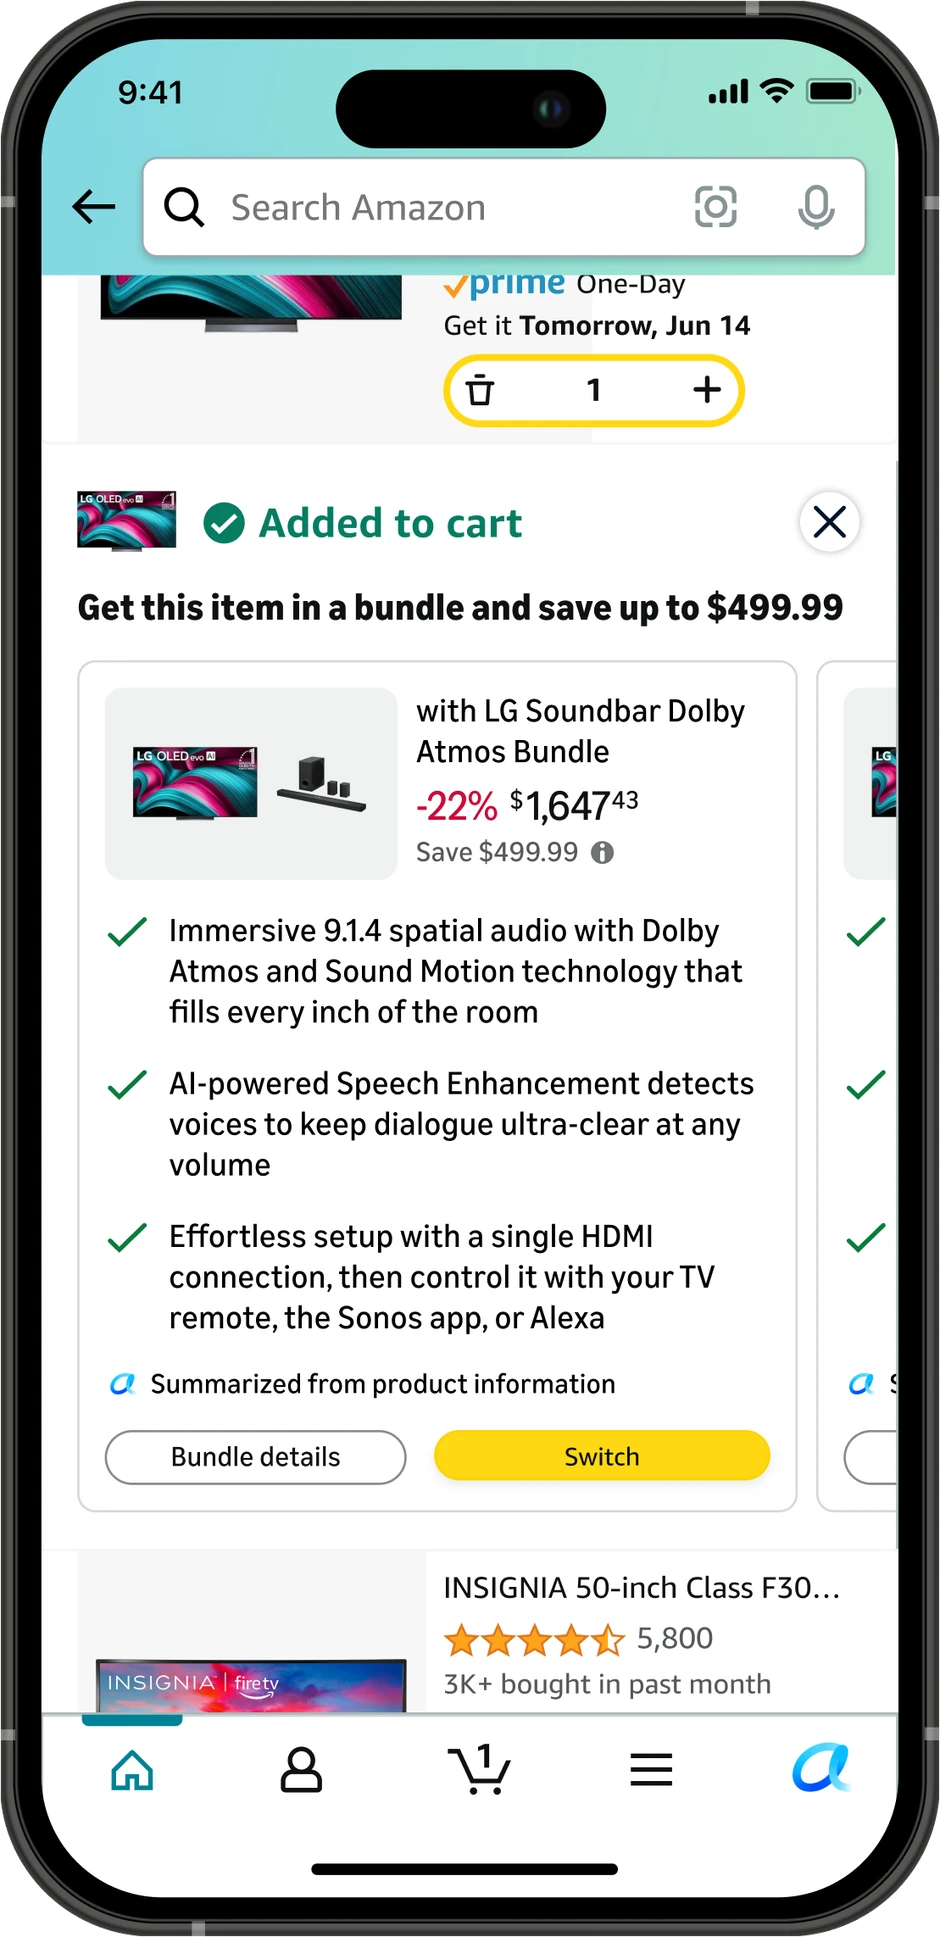
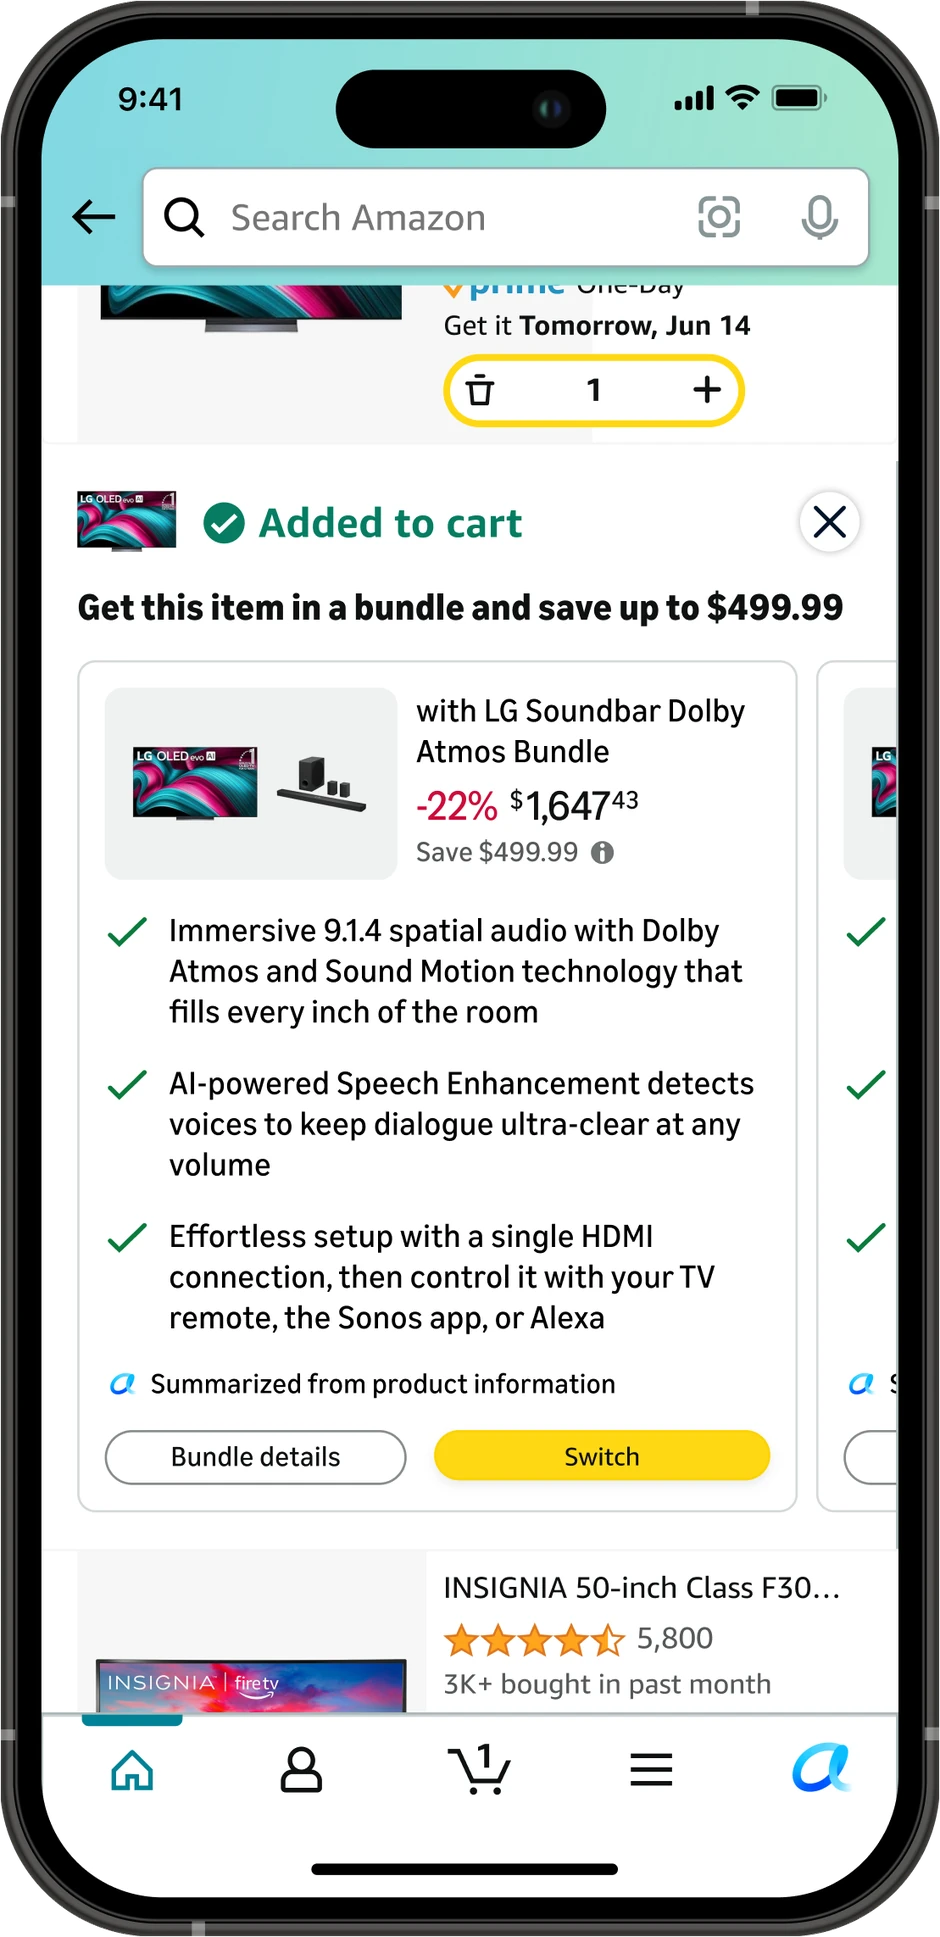
Re-export the Basket Building hero from the updated Figma frame
Same node 2373:29042, edited in Figma since the first export, so the same
encoder and the same published filename and dimensions. The diff between
the two source PNGs is confined to bbox (48,46,1060,337): the status bar
and the search field moved down about 10 CSS px inside the teal header,
and nothing below moved. No HTML, alt text or dimension change follows
from that, so only the WebP and the iteration notes change here.

The nudge does clip the top of the prime One-Day line under the search
field, which the first export cleared. That is in the frame rather than
the encode and is recorded as an open item.

Changed region(s): [[0.0309, 0.031, 0.9564, 0.1549]]

diff --git a/DESIGN-SYSTEM.md b/DESIGN-SYSTEM.md
@@ -81,7 +81,7 @@ iterations/24-card-dashboard-goals-trim/  the second paragraph and the whole fou
 iterations/25-card-dashboard-team-role/  Card Dashboard section 03 replaced with the user's own team roster and a prose responsibilities sentence, retiring the UX working group paragraph and its five item .case-list. removed.html has both plus the old hero .case-meta Team value, which had to change in the same edit or the page stated the team two ways. Records why the rail keeps the short form, why 4&nbsp;Engineers carries a non-breaking space, and the two claims that came out of the copy and where each still lives on the page.
 iterations/26-card-dashboard-servicing-linked-only/  a one sentence factual correction in Card Dashboard section 04: servicing kept the top of the page for linked customers only, because on-Amazon servicing is gated on account linking, not "in both cases". No markup change. Also flags the framework figcaption's "hold fixed placement in both", which makes a similar claim about the header, quick action pills and balance and was left alone because it describes what is drawn on that board.
 iterations/27-card-dashboard-chase-linking/  Card Dashboard section 04 second paragraph: the unserved segment would not link their Chase account, not their "bank account", and they managed the card at Chase's app/website. Adds the gating rule that linking the Amazon and Chase accounts was required for on-Amazon servicing, which is what makes "most of the page was dead weight" follow rather than assert. Records why "bank account" was wrong here and right on Pay Bill, where it survives nine times.
-iterations/60-bundle-carousel-hero/  the Basket Building hero image replaced with the current Figma frame, node `2373:29042` of `H3gOVBp2rmrTas26UAY195`, asked for as *"In improving basket building hero, show this phone frame/image"*. `bundle-carousel.webp` at 940x1937 retires `treatment-single.webp` at 840x1787, which had no other user on any live page; the wrapper, the `--bare` treatment and the no-caption decision are untouched. **Same composition, later screen, and the difference is the subject of the page**: one bundle card becomes a scrollable row of them, and the card gains **three ticked reasons the bundle fits** under a "Summarized from product information" line with the Alexa+ mark. Those reasons are what the AI Builder work is for, so the hero had been showing an earlier screen than the page describes. **The alpha is iteration 14's problem by a different route and iteration 14's fix does not work.** A Figma frame export has no alpha, so the four corners came back opaque white, which on `--bg` is the four white nicks the user flagged three times; but this bezel is **not a circular-cornered rectangle**, it is a continuous-curvature squircle. The proof is two readings that no circle can satisfy at once: the first non-white pixel down the left edge is at x=161 when y=0 and at x=0 when y=170, and a circle of radius R centred at (R,R) requires R=161 and R=170 respectively. So `proc.py` **reads the mask off the image instead of drawing it on**: the body is convex and the background is exactly white, so per row it is everything between the leftmost and rightmost non-white pixel, which is exact whatever the curve is; and each boundary pixel's own value gives its coverage, `a = (255-v)/(255-b)` with `b` from three pixels further in, so it gets alpha `a` and RGB `b`. That second step is why **there is no pale hairline to chase**: iteration 14 had to paint the discarded wedge `#1A1A1A` so LANCZOS would not drag white back along the curve, and here every partial pixel is already bezel-coloured with its whiteness moved into the alpha channel. Transparent pixels still get RGB zeroed, for iteration 11's reason. `TRIM = 1` drops the outermost ring because the node is 571.139 tall, so at scale 4 the last row is 56% covered and arrived `(158,158,156)`, a pale line along the bottom of a dark phone that the row-wise read does not model. **940 wide, not the 840 the other four phones use**, because this is the only one sized off `--case-hero-phone-h`, `clamp(26rem, 64vh, 60rem)`: at the 60rem ceiling the phone is asked for 960 CSS px of height, 1920 device px at DPR 2, which at this aspect is 932 wide, so 840 would have upscaled on a large monitor. Measured ratio of natural width to rendered width times DPR: 2.33 at 390, 1.63 at 744, 1.68 at 1024, 1.89 at 1280, 1.54 at 1512, 1.40 at 1920 and **1.05 at 2560**, the row that settles it. 138 KB against the old 101 KB, which is what that last row costs. Two things left open and recorded there: **`home-card.webp` still shows the old three treatments**, iteration 22 having baked it from iteration 14's crops, so the home page thumbnail and this hero now show different generations of the same screen; and the ticked reasons **name the Sonos app while the bundle is an LG soundbar**, which is in the Figma frame rather than the encode and is legible from 1512 up.
+iterations/60-bundle-carousel-hero/  the Basket Building hero image replaced with the current Figma frame, node `2373:29042` of `H3gOVBp2rmrTas26UAY195`, asked for as *"In improving basket building hero, show this phone frame/image"*. `bundle-carousel.webp` at 940x1937 retires `treatment-single.webp` at 840x1787, which had no other user on any live page; the wrapper, the `--bare` treatment and the no-caption decision are untouched. **Same composition, later screen, and the difference is the subject of the page**: one bundle card becomes a scrollable row of them, and the card gains **three ticked reasons the bundle fits** under a "Summarized from product information" line with the Alexa+ mark. Those reasons are what the AI Builder work is for, so the hero had been showing an earlier screen than the page describes. **The alpha is iteration 14's problem by a different route and iteration 14's fix does not work.** A Figma frame export has no alpha, so the four corners came back opaque white, which on `--bg` is the four white nicks the user flagged three times; but this bezel is **not a circular-cornered rectangle**, it is a continuous-curvature squircle. The proof is two readings that no circle can satisfy at once: the first non-white pixel down the left edge is at x=161 when y=0 and at x=0 when y=170, and a circle of radius R centred at (R,R) requires R=161 and R=170 respectively. So `proc.py` **reads the mask off the image instead of drawing it on**: the body is convex and the background is exactly white, so per row it is everything between the leftmost and rightmost non-white pixel, which is exact whatever the curve is; and each boundary pixel's own value gives its coverage, `a = (255-v)/(255-b)` with `b` from three pixels further in, so it gets alpha `a` and RGB `b`. That second step is why **there is no pale hairline to chase**: iteration 14 had to paint the discarded wedge `#1A1A1A` so LANCZOS would not drag white back along the curve, and here every partial pixel is already bezel-coloured with its whiteness moved into the alpha channel. Transparent pixels still get RGB zeroed, for iteration 11's reason. `TRIM = 1` drops the outermost ring because the node is 571.139 tall, so at scale 4 the last row is 56% covered and arrived `(158,158,156)`, a pale line along the bottom of a dark phone that the row-wise read does not model. **940 wide, not the 840 the other four phones use**, because this is the only one sized off `--case-hero-phone-h`, `clamp(26rem, 64vh, 60rem)`: at the 60rem ceiling the phone is asked for 960 CSS px of height, 1920 device px at DPR 2, which at this aspect is 932 wide, so 840 would have upscaled on a large monitor. Measured ratio of natural width to rendered width times DPR: 2.33 at 390, 1.63 at 744, 1.68 at 1024, 1.89 at 1280, 1.54 at 1512, 1.40 at 1920 and **1.05 at 2560**, the row that settles it. 138 KB against the old 101 KB, which is what that last row costs. Two things left open and recorded there: **`home-card.webp` still shows the old three treatments**, iteration 22 having baked it from iteration 14's crops, so the home page thumbnail and this hero now show different generations of the same screen; and the ticked reasons **name the Sonos app while the bundle is an LG soundbar**, which is in the Figma frame rather than the encode and is legible from 1512 up. **Amended the same day for a re-export of the same node**, asked for as *"Update that image again with this"* after the frame was edited in Figma: same encoder, same filename, same 940x1937, so no HTML changed. The diff between the two 1109x2285 exports has bbox `(48,46,1060,337)`, so nothing below y=337 moved; the status bar and the "Search Amazon" field both dropped about 40 source pixels, 10 CSS px, which is effectively extra top padding in the teal header. 137,062 bytes against the first export's 138,524, corners and all seven viewport ratios re-verified unchanged. That nudge adds a third open item: **the search field now clips the top of the "prime One-Day" line** it used to clear, again in the frame rather than the encode. The superseded source is `source/superseded/figma-2373-29042-4x-first-export.png` and the superseded WebP is `before/bundle-carousel-first-export.webp`.
 iterations/59-hero-rails-carry-impact/  the `.case-meta` rail's fourth cell changed from Org / Platform / Recognition to **Impact, carrying a number**, on all five case studies, asked for as *"update all project heroes to ensure that the last piece of information talks about the impact of the project instead of org, platform and recognition"* and clarified as *"I meant the showing impact metrics and numbers"*. Pay Bill goes from Amazon Inventor Award, 2023 to **23% fewer late fees, 21% less attrition**; Card Dashboard from the platform to **monthly visits 3.3M to 7.7M, up 2.3x**; KeyBank from g2o to **55 minutes to under 5, and 4 follow-on contracts**; Transactions from the platform to **10% fewer 1 and 2 star ratings, app rating up to 4.1**; Basket Building from the org to **11% Bundle Swap rate, units per purchase up 0.11**. All canonical, nothing new written. **All three old labels answered a question nobody asked**: Org and Platform said where the work happened, Recognition said it was liked, and none said it worked, so the one block a recruiter is certain to read held no result and the first number arrived four sections down. Each cell deliberately repeats a stat band figure, the rail being above the fold and the band not. **Pay Bill was the clearest case**: an award told a reviewer the work was liked before telling them it worked, which is the wrong order on a page whose job is to earn an interview. **Before deleting a metadata cell, grep the page for its content**, which is now rule 11 in section 12: the award survives in section 03 and on the home page, "shopping app" appears twice in each of two pages, and the Basket Building org four times, **but "g2o" existed NOWHERE on `keybank.html` except that cell**, so dropping it would have made agency work for a client read as in house work for a bank; it is folded into Team. Removing Basket Building's cell also retired the rail's only `&nbsp;` orphan fix. **The wrap took three passes and the third is the trap.** Measured at DPR 2 across 390 to 2560, three of five cells stranded a bare figure or word on line two (`contracts`, `4.1`, `to 4.1`, `0.11`), and a number alone on a line reads as a typo. `&nbsp;` fixed Transactions and Basket Building but **not KeyBank, where the break was inside the hyphen of "follow-on" rather than at a space**; `&nbsp;` does nothing about a hyphen, so the phrase needs `.nowrap`, and then the conjunction had to move inside the span because line one was ending on "and". Final: four cells at every viewport, never more than two lines, no tail under three words, longest value 52 characters. **11% and +0.11 remain publishable**: they are on the handoff's NEVER publish list as hypothetical modeling and the list is stale, the user having confirmed on 20 September 2026 that both are measured, and the hero cell now carries that note as well as the stat band, because the stale list has now twice nearly caused their removal. Without that, this page had no publishable impact figure and would have needed a different fourth cell from the other four. Also: `work/_TEMPLATE.html`'s fourth cell is hard-coded to Impact with the canonical constraint and the wrap check on it, and the section 12 skeleton names all four cells.
 iterations/58-project-ring-on-hover/  the home page project cards' green ring moved off the resting state and onto hover, plus the Transactions card's year corrected to 2022, asked for together: *"I want the green border to only illuminate once I hover over the project thumbnail. And update Transactions year in the thumbnail to 2022"*. `.project` goes from `2px solid var(--accent)` to `2px solid var(--stroke)`, and `--accent` moves to `.project:hover, .project:focus-within`. **Five saturated green rectangles down a page whose whole intent is quiet were the loudest thing on it**, and iteration 23 had painted itself into a corner where hover could only deepen, never illuminate. Three decisions inside it. **The width stays 2px in both states and only `border-color` moves**, because border width is part of the box, so the 1px-to-2px version of this would shift every line inside the card by a pixel on hover; the measured card box is 1170.09 x 535.5 in all three states, which is the check. **Transparent at rest was rejected** even though it is the literal reading of the ask: the cards sit on `--bg` with a `--bg-raised` fill only a few percent lighter, so with no edge a card loses its boundary and `--shadow-sm` alone will not give it one. `--stroke` also remaps correctly in the dark scope, where a hard-coded colour would not. **`:focus-within` is required, not garnish**: the card's whole face is a click target through `.project__link::after`, so a keyboard user on the title is doing what a mouse user hovering is doing, and scoped to `:hover` alone the green would be a mouse-only affordance. `.project__link:focus-visible::after` still draws the actual 2.4.7 indicator on top. Note the other two hover behaviours, the title underline and the media `scale(1.03)`, are **still hover-only**, which is the same gap one layer down and wants its own pass. Hover lands on `--accent` rather than `--accent-2` because the move is now a brightening; `--accent-2` is still live on `.practice-card:hover .practice-card__title`. No contrast obligation either way, since the ring carries nothing the link text and focus outline do not. **The year change leaves two cards reading 2022** (Pay Bill and Transactions), which is not a sorting bug, the home page years running 2022, 2025, 2026, 2022, 2019 by strength rather than chronology; and **it now disagrees with `work/transactions.html`**, whose Timeline is "October 2023, September 2024, September 2025". 2022 is the year the screens in the thumbnail are dated. Flagged, not reconciled.
 iterations/57-built-for-the-team/  the Practice band renamed **"Built for the team"** and its standfirst made to reach the divider above it, asked for together: *"The text width should match the divider widht on top. Also, come up with a better name than "Practice" ... documents I have written and tools I have built to uplevel the entire team"*. **The name** goes on the band h2, the nav label on all nine pages, and `practice.html`'s `<title>` and hero label; **`id="practice"` and the `#practice` fragment deliberately do not move**, because they are the target of the nav link on nine pages and of any URL already shared, and the file is still `practice.html`, so renaming them buys nothing a reader can see. "Practice" was a designer's word for a body of work, so a recruiter read these four as more work samples, which is the one thing they are not; "Built for the team" names the audience instead of the artifact. Rejected: "Internal tools" (two of the four are documents), "Team enablement" (HR register, and section 3 rules out the abstract noun), "Documents and tools" (makes the artifact the subject). Nav overflow with the longest label in the pill was measured on `scrollWidth` vs `clientWidth` at both `.nav__inner` and `.nav__links`, not eyeballed. **The width defect was real and was in shipped code**: `--measure-lead-wide: 84ch` was calibrated where the container ran 1170 to 1390, and `--page-max` puts it at about 1690 on a 32 inch monitor, so 84ch's 1210 stopped a third short of the rule. **A measure can never do this job** (it is a fixed box, so it matches at one viewport and falls short at every wider one) and widening it is not available, because span and size are one dial and a compliant 80 character line is about 920px at any viewport for any copy. **The settled treatment, after six passes and three rejected shipments, is ONE column with NO MEASURE AT ALL**, flush with the divider above it and the card grid below it, asked for a third time as *"I need that text column just as wide as the divider."* **It is not a special exemption: it is the third member of the uncapped set, with `figcaption` and `.case-note`, and it qualifies on section 9's own line-count argument** rather than in spite of it, at two lines a paragraph from 1280 up, the same property that makes a 237 character caption safe. So it is on a copy budget, and the budget is **one line at the widest width**: the copy was then streamlined to a single sentence of 148 characters on the user's instruction, *"Streamline this and just one small paragraph"*, against a line capacity of about 161. **The full measured ladder**, edges verified equal to the section head's at every width, with the line breaks because the shape of the tail matters as much as the worst line: 42 characters at 390 `[42, 40, 38, 25]`, 64 at 600 `[64, 62, 20]`, 79 at 744 and 860 `[79, 68]`, 83 at 1024 `[83, 64]`, 102 at 1280 through 1512 `[102, 45]`, 108 at 1728 `[108, 39]`, 122 at 1920 `[122, 25]`, 135 at 2200 `[135, 12]`, and 148 at 2560 and 3840 as **one line**. Inside 80 to about 950px of viewport, and never more than two lines above 600. **`text-wrap: pretty` is load-bearing**: without it 2200 broke as 142 + 5 and gave a five character word its own full width line, the one way an uncapped paragraph reads as broken rather than long. **`--t-lead-wide` is now the only lever on line length and it runs backwards**: the column is fixed, so raising the size shortens the line, 24px holding about 161 characters of capacity, 32px about 121, 36px about 107, and 36px is the ceiling because it is `--t-display-3`, the h2 above it. **80 characters at full width needs 48px, a third larger than its own heading**, which is the arithmetic that made the two asks mutually exclusive. It also inverts the copy relationship: with a measure, more words added lines; with none, more words lengthen the worst line toward 161. **Six passes**, and the CSS is the least of what they teach. `column-width: 33rem` spans correctly and **introduced a new 1.4.8 failure of 83 characters at 1024** in a single column, because `column-width` is a minimum not a count; `28rem` moved the failure rather than removing it, since the gap is inside the flip arithmetic (`(container - gaps) / n`); that same rule gave **three columns above 2100, numerically fine and wrong on the page**, reading as three fragments and breaking "documentation a" / "designer can learn from" across a boundary. Then **`column-count: 2` shipped and was rejected at once**, *"Why is this text breaking into two columns?"*, because **CSS columns flow ONE paragraph across the break**, so the sentence continued at the top of the second column and the reader had to travel back up to finish it. **Two whole paragraphs, one per column, shipped next and was rejected too**, *"These are still in 2 columns? I want them in one."* That is the finding: the objection was to columns, not only to the interruption, and **a deck in two columns reads as a newspaper whatever is in them**. Do not reach for CSS columns on running prose a reader is meant to read straight through, neither `column-count` nor a two column grid; they are right for a list or a set of short independent items. The deeper lesson is about verification: **every rejected pass passed its audit, and passing is what let two of them ship.** Measuring proves a line is not too long; it cannot tell you a reader does not want their standfirst in columns. One more trap worth the line: **a `ch` measure belongs on the element carrying the font size it describes.** `max-width: var(--measure-case-wide)` on the wrapper resolved 58ch against the inherited 18px and came out 622px, setting 55 characters instead of 77; on the paragraphs it resolves against `--t-lead-wide`'s 24px and comes out 835px. Nothing errored. **`--measure-lead-wide` is deleted**, and the interesting thing about it is that 84ch was the worst of both: over the character ceiling at 101 characters a line at 1280, *and* still visibly short of the rule at about 72% of the container. That is why the defect and the violation had the same cause and one change removed both. A compliant 58ch version shipped in between and was rejected, because stopping at 49% of the divider was the thing originally reported. **The copy was rewritten four times and the layout drove every rewrite**, which is the clearest thing in this iteration: 137 characters as one paragraph, then 270 to stop `column-count` setting one line per column, then two matched paragraphs of 205 and 207 for the two-column grid, then **one sentence of 148** once the column went uncapped, *"Streamline this and just one small paragraph"*. **The columns imposed a length floor and the uncapped column imposes a ceiling instead**, so the copy was never free: it is budgeted at one line at the widest width now. What was dropped along the way, and is worth knowing was deliberate: the pairing the 2x2 grid already draws (the documentation and the tool, then the agent and the playbook), "mine included", and the explicit "the case studies are work I shipped to customers" contrast, which the surviving sentence carries as "rather than for customers". The rewrite also dropped "the playbook the agent came out of", the last provenance claim of its kind in home page copy.
